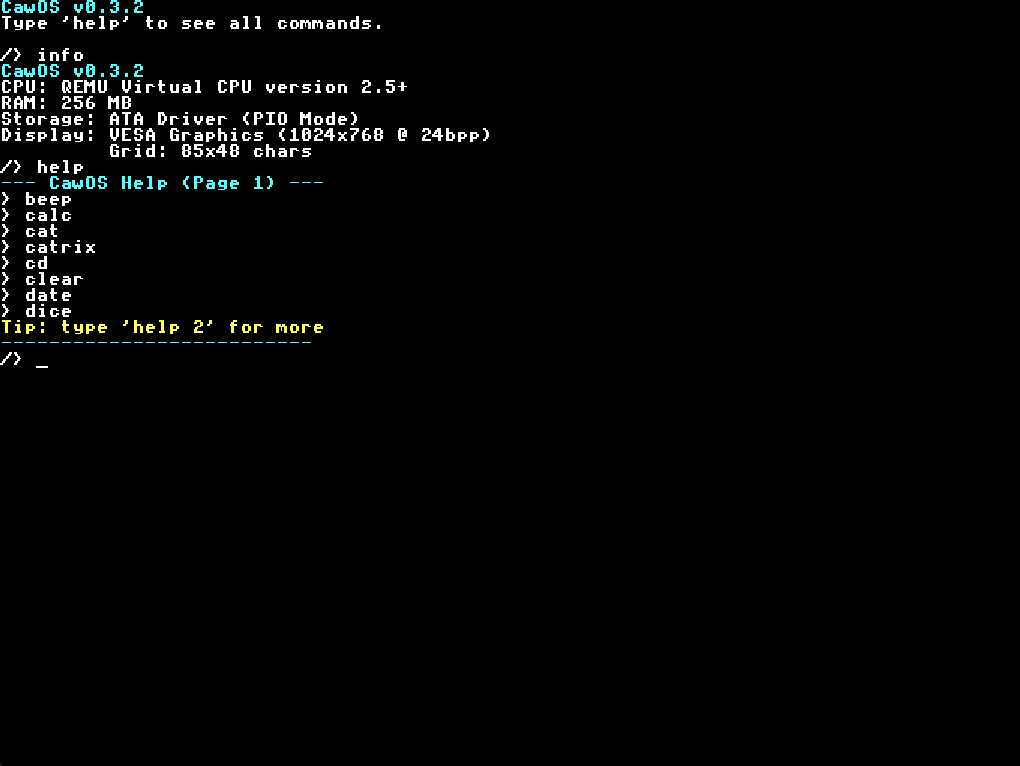
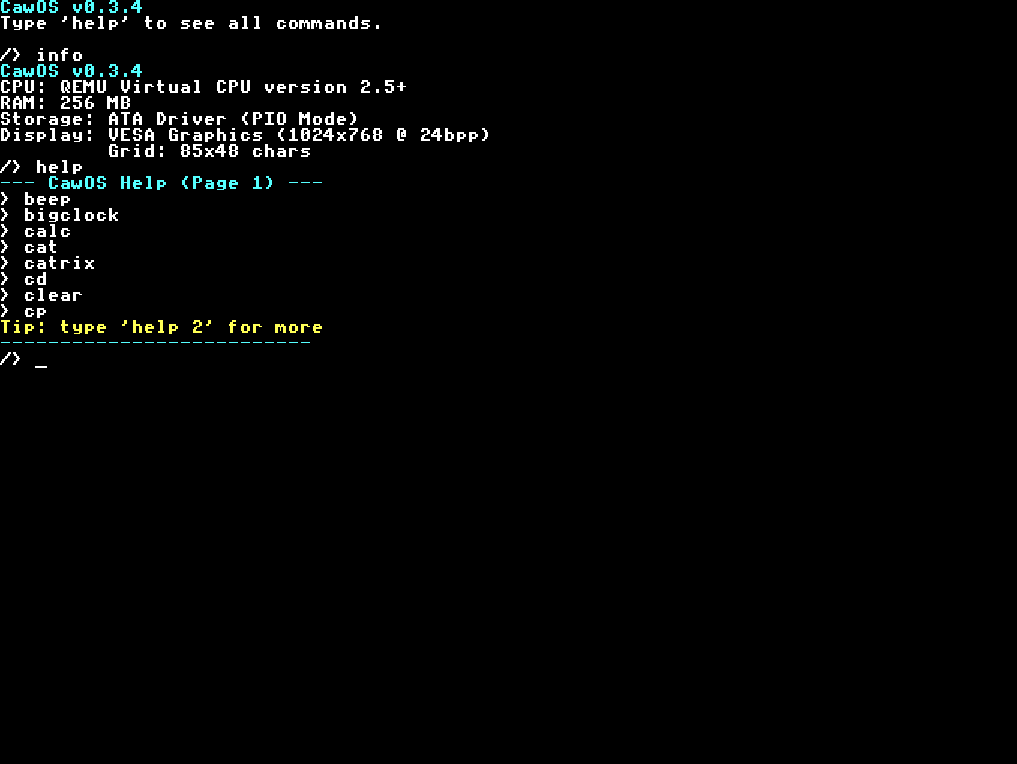
Update README

diff --git a/README.md b/README.md
@@ -1,102 +1,124 @@
 # CawOS v0.3.4
 
-**CawOS** - это многофункциональная 32-битная операционная система для архитектуры x86 (i686), разработанная с нуля на C и Assembly. Проект оснащен собственным микроядром, расширяемой файловой системой, полноценной графической оконной оболочкой (GUI Desktop), встроенными драйверами (включая звук AC97 и мышь PS/2), а также диагностическим режимом восстановления.
+**CawOS** - это многофункциональная 32-битная операционная система для архитектуры x86 (i686), написанная с нуля на C и Assembly. Проект включает собственный двухэтапный загрузчик, ядро с вытесняющей многозадачностью и Ring-3 процессами, файловую систему CawFS, графическую оболочку (GUI Desktop), набор драйверов (ATA, AC97, PS/2-мышь, ACPI и др.) и режим диагностики (Recovery).
+
+
+## Возможности
+
+### Загрузка и низкоуровневый слой
+- **Двухэтапный загрузчик**: `boot.asm` (MBR, чтение через INT 13h AH=42h EDD) → `stage2.asm` (0x8000): включение A20 (порт 0x92), инициализация VBE, загрузка ядра по LBA, переключение в защищённый режим через собственную GDT, копирование ядра на 0x100000 и передача управления `kernel_entry.asm`.
+- **VBE-графика при загрузке**: загрузчик перебирает список режимов (приоритет - 1024×768, затем 800×600 и 640×480, глубина 16/24/32 bpp, только с линейным фреймбуфером). Если ни один режим недоступен - откат в текстовый режим VGA 80×25 (0xB8000).
+- **GDT + TSS**: TSS используется для стеков ESP0 при переходах Ring 3 → Ring 0.
+- **IDT и прерывания**: обработчики исключений (Divide by Zero, GPF, Page Fault), remap PIC 8259, таймер 100 Гц, IRQ1 (клавиатура), IRQ12 (мышь), программное прерывание `int 0x80` для системных вызовов.
+- **Куча ядра**: самонастройка - память прощупывается паттернами (`wbinvd`) от 0x00800000 вверх с шагом 1 МиБ; `malloc`/`free` со списком свободных блоков.
+
+### Планировщик и процессы
+- **Вытесняющий round-robin**: переключение контекста по таймеру (квант - 5 тиков при 100 Гц), таблица на 16 процессов (состояния RUNNING/READY/ZOMBIE), "сбор зомби".
+- **Ring-3 процессы**: пользовательские ELF-программы исполняются в третьем кольце защиты с отдельным пользовательским стеком; ядро получает управление через TSS.
+- **ELF-загрузчик**: 32-bit ELF (i386, ET_EXEC, PT_LOAD-сегменты, обнуление BSS). Программы линкуются на `-Ttext=0x1000000`.
+- **Системные вызовы** (`int 0x80`, 12 штук): `sys_exit`, `sys_putchar`, `sys_print`, `sys_clear`, `sys_setcursor`, `sys_getkey`, `sys_open`, `sys_read`, `sys_write`, `sys_close`, `sys_yield`, `sys_getpid` (номера 1–12, см. `include/kernel/syscall.h`).
+- **Консольное управление процессами**: `run` (запуск с ожиданием завершения), `spawn` (фоновый запуск), `ps`, `kill`.
+
+### Графика и GUI
+- **Двойная буферизация**: кадр рисуется в теневой буфер `g_shadow`, затем копируется во фреймбуфер - без мерцания.
+- **Масштабируемый шрифт**: растровый шрифт 8×8 с масштабированием (`font small | normal | large`), отрисовка текста и в графическом, и в текстовом режиме.
+- **GUI Desktop** (команда `gfx`):
+  - панель задач с кнопкой "Пуск" и меню (Programs, Documents, Settings, Find, Help, Run..., Shut Down...);
+  - окна с заголовком, фокусом, кнопкой закрытия и перемещением перетаскиванием мышью;
+  - прямоугольник выделения на рабочем столе;
+  - встроенные графические приложения: `about`, `help`, `find`, `list`, `notepad`, `run`.
+- **Idle-режим**: после 60 секунд бездействия (настраивается, вкл/выкл - `idle`) показываются большие часы (`bigclock`).
+
+### Файловая система CawFS
+- Табличная ФС "а-ля FAT": 1024 файла/каталога, до 32768 кластеров по 512 байт, сигнатура 0xCA705.
+- Иерархические каталоги (`mkdir`, `cd`, `ls` с пагинацией), атрибуты файлов (размер, исполняемость).
+- Параметры разметки генерируются сборкой в `include/fs_config.h` (таблица ФС на LBA 979, CawFAT, данные с LBA 1259).
+- **Два пути ввода-вывода**: драйвер ATA/IDE PIO (основной) и откат на BIOS INT 13h через Real↔Protected mode thunk (актуально для QEMU/старого железа). Данные сохраняются между перезагрузками.
+- В CawFS хранятся и **настройки системы** (`/core/config`): флаг чистого выключения, режим сериальной консоли (`serial_console=1`), настройки idle-таймаута.
+
+### Драйверы
+- **ATA/IDE PIO** - чтение/запись секторов (primary/secondary, master/slave).
+- **AC97** - поиск устройства на шине PCI (класс 0x04, подкласс 0x01), Bus Mastering через NAM/NABM, воспроизведение сырого PCM; при загрузке играет `boot_sound_cawos`.
+- **PC Speaker** - `beep` через PIT.
+- **PS/2 мышь** - IRQ12, 3-байтовые пакеты, знаковое расширение dX/dY, ограничение курсора экраном.
+- **Клавиатура** - IRQ1, скан-коды, Shift/Caps Lock, Ctrl+C (прерывание "демо"-команд), Ctrl+L (очистка экрана).
+- **ACPI** - поиск RSDP (EBDA + 0xE0000–0xFFFFF), разбор RSDT/XSDT, FADT, MADT: количество CPU, адреса Local/IO APIC; корректное выключение (`shutdown`, `gfx`).
+- **CMOS RTC** - реальное время и дата (`date`).
+- **COM1 (serial)** - журнал ядра (`LOG_INFO`/`LOG_ERROR`) и полноценная сериальная консоль.
+
+### Диагностика: BSOD, Watchdog, Recovery
+- **Blue Screen of Death**: при Divide by Zero, GPF, Page Fault и срабатывании watchdog выводится синий экран с дампом регистров (EIP, CS, EAX–EDX, ESP, EBP; CR2 для Page Fault) и stack trace по цепочке EBP (до 8 кадров). Дамп дублируется на COM1 (`[BSOD] ...`). Команда `panic` вызывает BSOD намеренно (для проверки).
+- **Watchdog**: если ядро не сбрасывало счётчик дольше 5 секунд (500 тиков по 100 Гц) - BSOD "WATCHDOG TIMEOUT" и остановка.
+- **Recovery Console**: удержание/нажатие **DEL в первые ~500 мс** загрузки загружает вместо ядра отдельный модуль `recovery.bin`, который тестирует ОЗУ в диапазоне `0x500000–0xB00000` паттернами `0x55555555`/`0xAAAAAAAA` и выводит результат на синий диагностический экран. Перезапуск - клавиша R.
+
+### Оболочка (shell)
+- Приглашение вида `/> ` (текущий каталог).
+- История команд (стрелки вверх/вниз, 10 команд), автодополнение по Tab (если совпадение одно).
+- **Сериальная консоль**: при `serial_console=1` в `/core/config/serial.cfg` вывод команд дублируется на COM1, а ввод с COM1 обрабатывается как обычная консоль (удобно для headless-запуска и автотестов).
 
 ---
 
-## Ключевые возможности и архитектура
 
-### Ядро и низкоуровневая система
-- **32-битный Protected Mode**: Загрузка через двухэтапный загрузчик (MBR -> Stage 2), инициализация сегментации через GDT и запуск ядра по адресу `0x100000`.
-- **Interrupt Descriptor Table (IDT)**: Настройка исключений процессора, аппаратных прерываний (PIC 8259 remapping) и системных вызовов.
-- **Watchdog Timer**: Встроенный сторожевой таймер в обработчике прерывания системного таймера (100Hz) для обнаружения и предотвращения зависаний ядра.
-- **Blue Screen of Death (BSOD)**: Вывод детального дампа регистров процессора (`EIP`, `EAX`, `EBX`, `ECX`, `EDX`, `ESP`, `EBP`, `CS`, `CR2` для Page Fault) и `EBP`-цепочки stack trace при возникновении критических исключений (Divide by Zero, Page Fault, GPF). Дамп автоматически дублируется на COM1 для headless-диагностики.
-- **Ring-3 пользовательские процессы**: ELF-программы выполняются в нерпивилегированном кольце защиты 3 с отдельными пользовательским и ядерным стеками.
-- **Вытесняющий round-robin планировщик**: Переключение задач по таймеру (time slicing), очередь готовых процессов и фоновый запуск через `spawn`.
-- **Интерфейс системных вызовов**: Поддержка системных вызовов (`sys_exit`, `sys_putchar`, `sys_print`, `sys_clear`, `sys_setcursor`, `sys_getkey`, `sys_yield`, `sys_getpid`, `sys_open`, `sys_read`, `sys_write`, `sys_close`) для взаимодействия пользовательских программ с ОС.
+## Сборка и запуск
 
-### Графическая подсистема и GUI
-- **Драйвер VBE (VESA Bios Extensions)**: Поддержка графических режимов высокого разрешения (например, 1024x768) с глубиной цвета 16, 24 и 32 BPP.
-- **Двойная буферизация**: Отрисовка кадров в теневой буфер в оперативной памяти (`g_shadow`) с последующим копированием в видеобуфер (`g_framebuffer`) для устранения мерцания (tearing).
-- **GUI Desktop (Оконный менеджер)**:
-  - Запускается командой `gfx` из консоли.
-  - Полноценная поддержка окон с заголовками, рамками, фокусом ввода и кнопкой закрытия.
-  - Поддержка перемещения окон перетаскиванием (drag-and-drop) мышью.
-  - Панель задач (Taskbar) с кнопкой «Пуск» и статус-панелью.
-  - Отрисовка прямоугольника выделения на рабочем столе мышью.
-  - Встроенные графические приложения.
-- **Текстовый режим VGA**: Автоматический откат на классический VGA-режим (80x25 с цветовыми атрибутами символов), если графический режим VBE недоступен.
-
-### Файловая система CawFS (кластерная)
-- **Структура а-ля FAT**: Использование таблицы кластеров `cawfat` для динамического выделения памяти под файлы.
-- **Параметры разметки** (описаны в `fs_config.h`):
-  - Поддержка до **1024 файлов/каталогов** (`MAX_FILES`).
-  - Объем диска до **32768 кластеров** (`MAX_CLUSTERS`).
-  - Сигнатура разметки: `0xCA705`.
-- **Поддержка папок**: Иерархическая структура каталогов с возможностью создания папок (`fs_mkdir`) и навигации по ним (`fs_cd`).
-- **Спецификация ввода-вывода**:
-  - Использование прямого драйвера **ATA/IDE PIO** при наличии совместимого контроллера.
-  - Откат на BIOS прерывания (через переключение Real-to-Protected mode thunk) для записи/чтения секторов диска.
-  - Поддержка постоянного хранения данных (Persistent storage) между перезагрузками.
-
-### Драйверы периферии
-- **AC97 Audio Driver**: Полноценный драйвер звуковой карты AC97, сканирующий шину PCI (класс `0x04` подкласс `0x01`). Выполняет настройку Bus Mastering через I/O-порты NABM/NAM и проигрывает сырые PCM звуки. При запуске автоматически проигрывает файл `boot_sound_cawos`.
-- **PC Speaker**: Программная генерация звуковых сигналов через системный PIT (таймер 8253/8254).
-- **PS/2 Mouse Driver**: Драйвер мыши с аппаратным сбросом контроллера PS/2, обработкой 3-байтовых пакетов движения (с учетом знакового расширения delta-X/Y и кнопок) и ограничением перемещения границами экрана.
-- **Keyboard Driver**: Поддержка прерываний клавиатуры (IRQ 1), обработка скан-кодов, поддержка Shift, Caps Lock и Ctrl+C.
-- **ACPI Driver**: Парсинг системных таблиц ACPI (`RSDP`, `RSDT`, `XSDT`, `FADT`, `MADT`). Позволяет определять количество процессоров в системе, находить базовые адреса Local/IO APIC, переопределять IRQ (Interrupt Override) и выполнять корректное выключение компьютера (`acpi_shutdown`).
-- **CMOS RTC Driver**: Чтение реального времени и даты непосредственно из CMOS-памяти.
-
-### Пользовательское ПО и ELF-загрузчик
-- **ELF Loader**: Загрузчик исполняемых файлов формата ELF (32-bit Executable, i386, PT_LOAD-сегменты, инициализация области BSS).
-- **Пользовательские ELF-программы** (в папке `src/elf`):
-  - `fileview.elf` - просмотр файлов через системные вызовы.
-  - `keytest.elf` - интерактивный тест кодов клавиш.
-  - `gpf_test.elf` - тест обработки General Protection Fault из ring 3.
-  - `spin.elf` - фоновая задача для проверки планировщика.
-
-### Управление процессами
-- **`run <file.elf>`**: Загружает и запускает ELF-программу в ring 3, ожидая её завершения.
-- **`spawn <file.elf>`**: Запускает ELF-программу в фоновом режиме; shell остаётся доступен.
-- **`ps`**: Выводит список активных процессов (PID, состояние, имя).
-- **`kill <pid>`**: Принудительно завершает фоновый процесс.
-
-### Режим диагностики (Recovery Console)
-- Доступен при нажатии клавиши **Delete (`DEL`)** в первые 500 мс загрузки системы.
-- Независимый бинарный модуль восстановления (`recovery.bin`), загружаемый на физический адрес `0x100000`.
-- Осуществляет автоматическую диагностику оперативной памяти в диапазоне `0x500000 - 0x900000` (запись и валидация паттернов `0x55555555` и `0xAAAAAAAA`).
-- Выводит результаты тестирования на красивый синий графический экран диагностики.
-
----
-
-## Сборка и Запуск
-
-### Требования к окружению
-Для успешной компиляции и запуска вам понадобятся:
-1. Кросс-компилятор **`i686-elf-gcc`** (и соответствующие утилиты `i686-elf-ld`, `i686-elf-objcopy`).
+### Требования
+1. Кросс-компилятор **`i686-elf-gcc`** (+ `i686-elf-ld`, `i686-elf-objcopy`).
 2. Ассемблер **`nasm`**.
-3. **`Python 3`** для выполнения скриптов упаковки диска.
-4. Эмулятор **`QEMU`** (с настроенной эмуляцией звуковой карты `ac97`).
+3. **Python 3** (упаковка образа и ФС).
+4. **QEMU** (`qemu-system-i386`).
 
-### Инструкция по сборке пользовательского ПО
-Перед общей сборкой образа рекомендуется скомпилировать пользовательские ELF-приложения. Все batch-скрипты (`compile_programs.bat`, `build.bat`, `start.bat`) запускаются из корня проекта:
+### Linux / macOS
 ```bash
-compile_programs.bat
+./build.sh    # полный конвейер: ELF-программы → ядро → recovery → CawOS.img (16 МиБ)
+./run.sh      # запуск в QEMU (serial → stdio, AC97 audio)
+```
+Полезные опции `run.sh` (обёртка над `scripts/run.py`):
+```bash
+./run.sh --no-audio          # без звуковой карты
+./run.sh --headless          # -nographic
+./run.sh --timeout 20        # 20 секунд, журнал COM1 → serial.log
+./run.sh --memory 256        # объём ОЗУ (МиБ)
 ```
 
-### Инструкция по сборке и запуску ядра
-Для сборки ядра, создания CawFS-структуры диска и запуска выполните из корня проекта:
-```bash
-build.bat   # Компилирует исходные коды ядра и собирает CawOS.img (16 МБ)
-start.bat   # Запускает образ в QEMU с конфигурацией аудио ac97
+### Windows
+```bat
+build.bat    :: сборка ядра, recovery и образа (пользовательские программы должны быть собраны заранее)
+compile_programs.bat    :: компиляция fileview/keytest/guess_game в src\bin\elf
+start.bat    :: запуск образа в QEMU (dsound + AC97)
 ```
+> Основной (кроссплатформенный) путь сборки - `scripts/build.py` (его вызывает `build.sh`): он сам компилирует **все 5** ELF-программ, ядро, recovery, генерирует `fs_config.h` и собирает образ. `build.bat` - Windows-альтернатива.
+
+### Прочие утилиты
+- `scripts/unpack.py` (`unpack.bat`) - распаковка CawFS из готового образа в каталог `extracted/`.
+- `scripts/font.py` (`font.bat`) - визуализация глифов шрифта `font8x8_basic` из `src/libc/font.c` в терминале.
 
 ---
 
-## Скриншоты работы системы
+## Отладка и сериальная консоль
+
+Ядро всегда пишет журнал на COM1: этапы инициализации, версия, ошибки; при падении - дамп BSOD. В QEMU это удобно перехватывать:
+
+```bash
+./run.sh --timeout 20                    # serial.log будет записан
+qemu-system-i386 -drive format=raw,file=CawOS.img,if=ide -serial stdio
+```
+
+Для интерактивной работы через COM1 включите в ОС зеркалирование вывода (файл `/core/config/serial.cfg` содержит `serial_console=1` - включено в поставляемом образе).
+
+
+---
+
+
+## Скриншоты
 
 ![CawOS LOGO](screenshots/logo.png)
-*Экран загрузки системы с ASCII-арт логотипом*
+*Загрузочный экран с ASCII-логотипом*
 
 ![CawOS Shell](screenshots/shell.png)
-*Интерактивная командная оболочка консольного режима*
+*Командная оболочка*
+
+---
+
+## Лицензия
+
+Проект распространяется по лицензии **Apache License 2.0** - см. [LICENSE](LICENSE).
